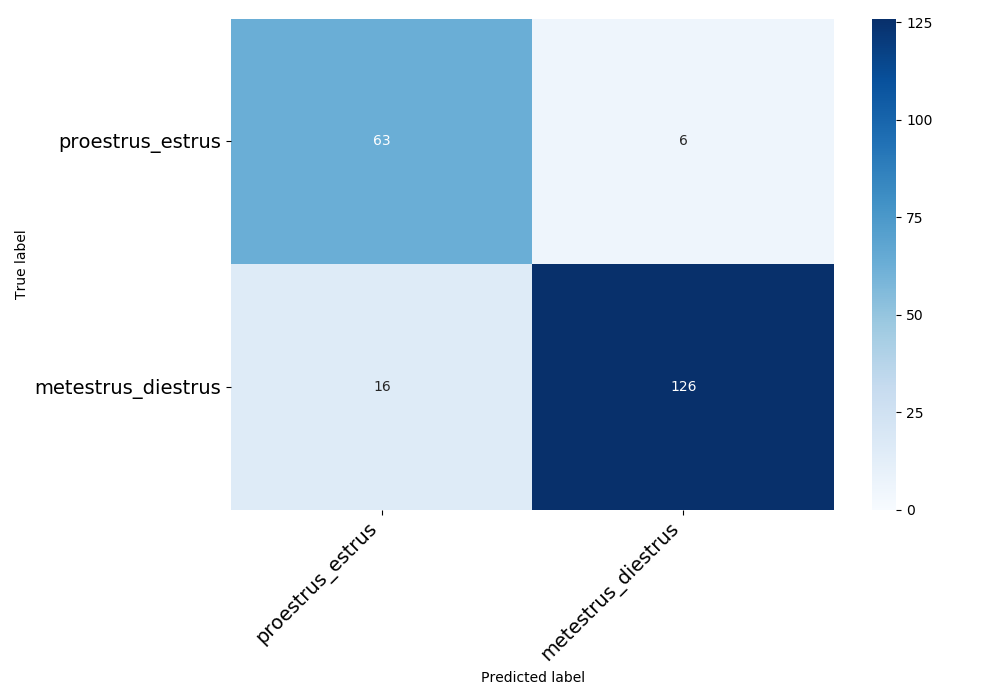
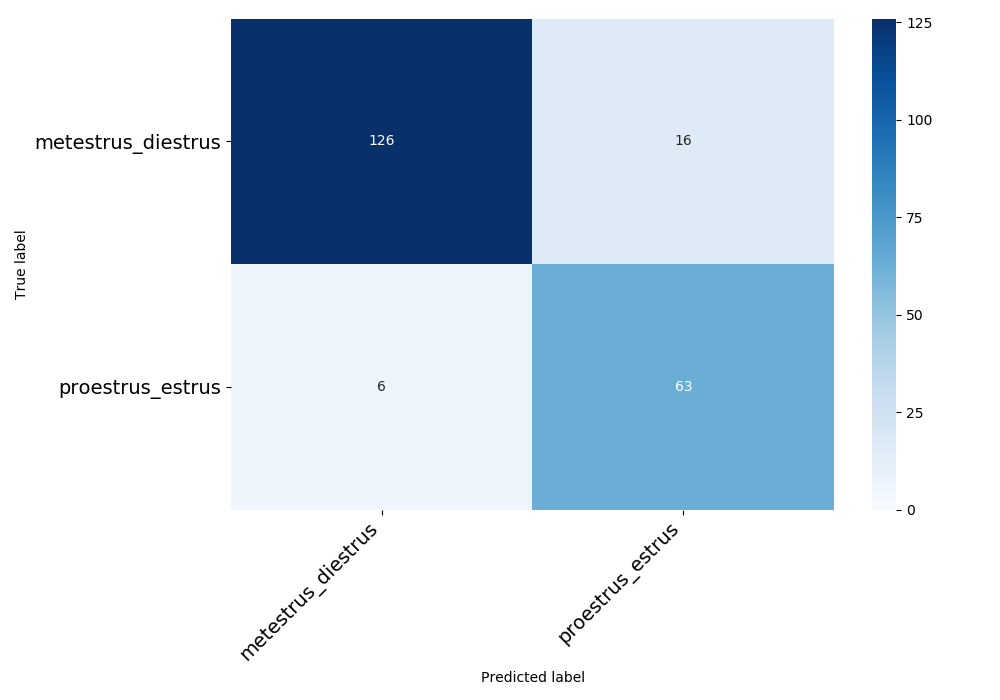
Change confusion matrices such that 'diestrus' is the positive instead of negative

diff --git a/metrics.py b/metrics.py
@@ -55,8 +55,12 @@ def create_confusion_matrix_plots(predictions_file, out_file):
     # classes in between the file name (first column) and predicted/label
     # (last two columns)
     classes = list(df.columns[1:-2])
-    # since the first letters for phases are all different, sort using this
-    classes.sort(key=SORT_BY_PHASE_FN)
+    if len(classes) == 2:
+        # sort alphabetical for diestrus vs pro-est-met, or met-die vs pro-est
+        classes.sort()
+    else:
+        # since the first letters for phases are all different, sort using this
+        classes.sort(key=SORT_BY_PHASE_FN)
 
     cm = confusion_matrix(df['label'], df['predicted'], labels=classes)
     # plot standard confusion matrix
